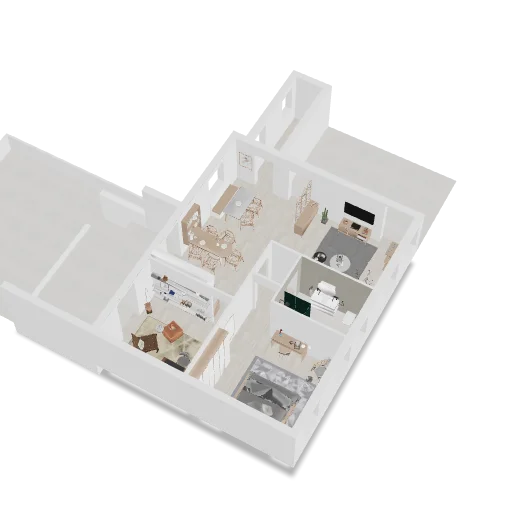
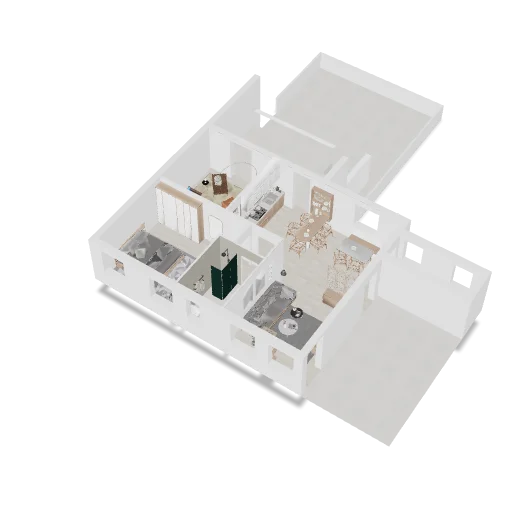
update2

diff --git a/index.html b/index.html
@@ -9,7 +9,7 @@
   </head>
   <body>
     <!-- <model-viewer> HTML element -->
-    <model-viewer src="inta_floorplan.glb" ar ar-modes="webxr scene-viewer quick-look" camera-controls poster="poster.webp" shadow-intensity="2" exposure="0.95" shadow-softness="0" camera-orbit="-115.9deg 32.45deg 6.039m" field-of-view="26.26deg" auto-rotate min-camera-orbit="auto 0deg auto" max-camera-orbit="auto 72deg auto">
+    <model-viewer src="inta_floorplan.glb" ar ar-modes="webxr scene-viewer quick-look" camera-controls poster="poster.webp" shadow-intensity="2" exposure="0.95" shadow-softness="0" camera-orbit="-2.271deg 39.02deg 6.528m" field-of-view="26.26deg" min-camera-orbit="auto 0deg auto" max-camera-orbit="auto 72deg auto" auto-rotate>
       <div class="progress-bar hide" slot="progress-bar">
           <div class="update-bar"></div>
       </div>
